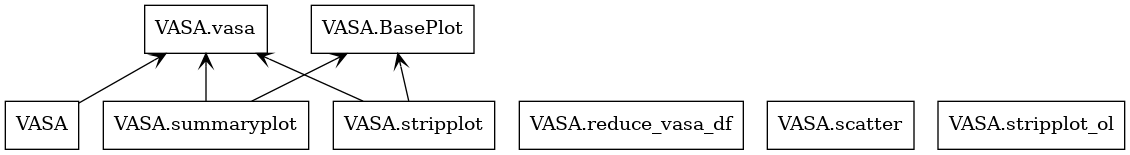
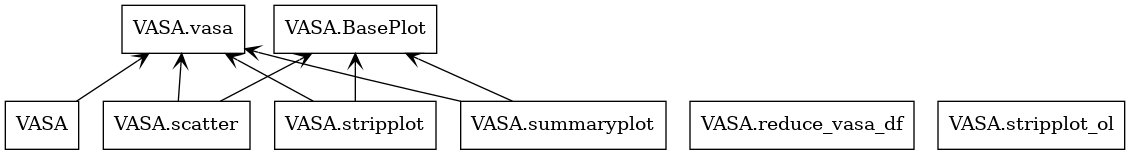
uml

diff --git a/VASA/scatter.py b/VASA/scatter.py
@@ -5,8 +5,8 @@ import numpy as np
 import math
 from typing import List
 
-#from VASA.preprocessing.vasa import VASA
-#from VASA.BasePlot import BasePlot
+from VASA.vasa import VASA
+from VASA.BasePlot import BasePlot
 
 
 class Scatter(BasePlot):
